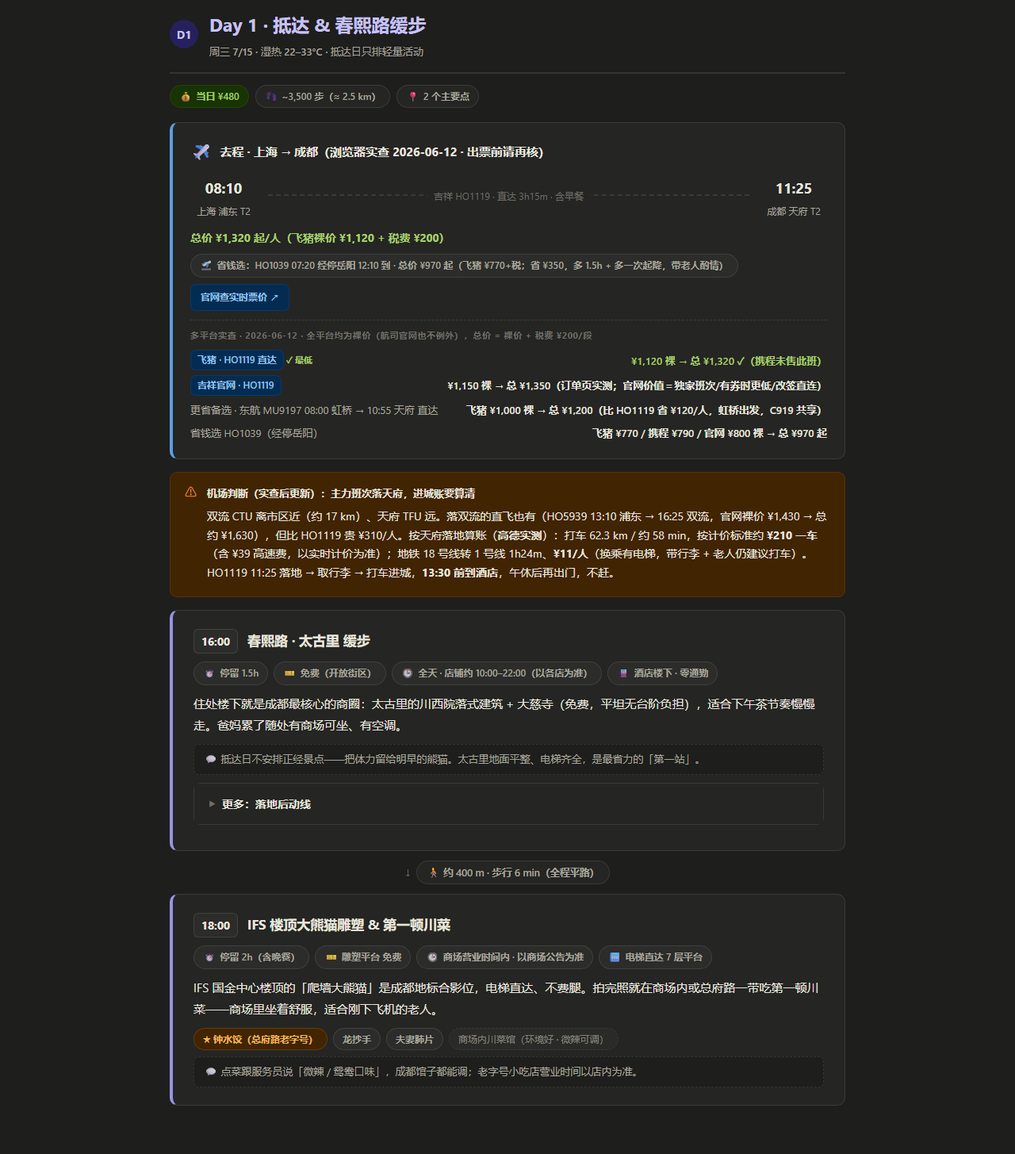
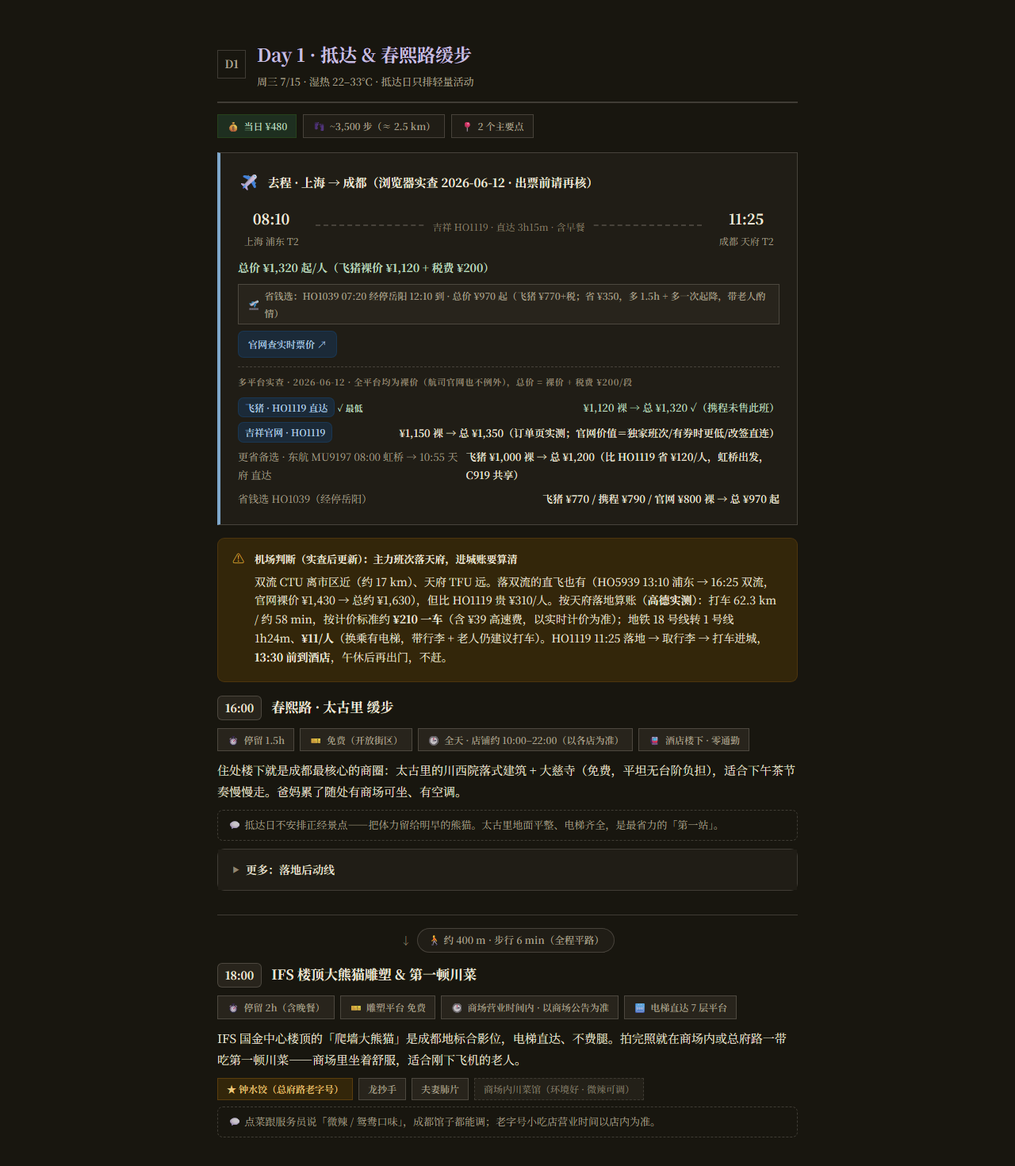
chore: 示例与 README 六张资产随新默认方向一并翻新
示例内嵌的也是旧 CSS 快照，加了 data-theme 也是空转；模板默认已改成 journal，
README 展示的还是旧暖米白，图和产物对不上。

改动：
- 示例内嵌 CSS 整块换成按模板组装出的完整样式表，<html> 设为 data-theme="journal"
- 资产用 make_showcase.sh + make_hero.py + make_demo_gif.py 全部重出

⚠ 踩到一个坑：`## Full CSS` 不是完整样式表。必需的 640px 移动端块挂在 HTML 模板的
<style> 里、在 /* PASTE FULL CSS HERE */ 之后，只取 Full CSS 会把它丢掉 ——
check_html.py 的 mobile adaptation 当场 FAIL。改成用「模板组装后」的样式表。

timeline-desktop.png / hotels-desktop.png 的裁剪窗口不靠目测，用浏览器实测的
区块 getBoundingClientRect 坐标裁；中间产物 full.png 已删。

实测：示例渲染确认真的是 journal（纸白、思源宋体、零圆角），每日色轮转按设计
保留（Day1 蓝），0 横向溢出；check_html.py all checks passed。

diff --git a/examples/成都4日游行程.html b/examples/成都4日游行程.html
@@ -1,5 +1,5 @@
 <!DOCTYPE html>
-<html lang="zh-CN">
+<html lang="zh-CN" data-theme="journal">
 <head>
 <meta charset="UTF-8">
 <meta name="viewport" content="width=device-width, initial-scale=1.0">
@@ -13,6 +13,8 @@
 <style>
 :root {
   --bg:#ffffff; --bg2:#f7f6f2; --bg3:#f0ede6; --bg4:#e8e4db;
+  /* text3 由 #8a8a84 调深：旧值在 --bg2 卡片上只有 3.21:1，低于 AA。目录标题、地图说明、
+     比价标题、换乘箭头都吃它。保持色相只调明度解得。 */
   --text:#1a1a18; --text2:#5a5a56; --text3:#70706B;
   --border:rgba(0,0,0,0.11);
   --purple:#534AB7; --purple-light:#EEEDFE; --purple-dark:#3C3489; --purple-mid:#7F77DD;
@@ -33,6 +35,12 @@
     --purple-light:#26215C; --teal-light:#04342C; --coral-light:#4A1B0C;
     --amber-light:#412402; --blue-light:#042C53; --green-light:#173404;
     --red-light:#501313; --pink-light:#4B1528;
+    /* CRITICAL dark-mode contrast fix (synced from study-notes). The block above only re-darkens
+       the *-light BACKGROUNDS; without the lines below, the base accents and the *-dark TEXT
+       colours keep their light-mode (dark) values, so every "accent text on accent-light
+       background" pairing — chips/pills (.b-*), the themed header pills, section headings,
+       callout icons — becomes dark-on-dark and unreadable (old teal-dark on teal-light measured
+       1.46:1). Brightening restores 6.8–9.9:1. *-mid are already bright; leave them. */
     --purple:#9A92E6; --teal:#3FB389; --coral:#E07B52; --amber:#E89A2A;
     --blue:#5B9FE0; --green:#7FB23E; --red:#E07676; --pink:#D87B9C;
     --purple-dark:#C7C2F5; --teal-dark:#74D6B0; --coral-dark:#F4A487; --amber-dark:#F2B75A;
@@ -52,12 +60,17 @@ body>*:not(.page){max-width:900px;margin-left:auto;margin-right:auto;padding-lef
 }
 /* Wide tables may scroll horizontally on the table element itself */
 table{overflow-x:auto;display:block;}
+/* thin, theme-aware scrollbar for wide tables (synced from study-notes) — far less jarring than
+   the native white bar, and only appears when the table actually overflows */
 table{scrollbar-width:thin;scrollbar-color:var(--text2) transparent;}
 table::-webkit-scrollbar{height:7px;}
 table::-webkit-scrollbar-thumb{background:var(--text2);border-radius:4px;}
 table::-webkit-scrollbar-button{display:none;width:0;height:0;}
 
-/* ── Themed hero header ── */
+/* ── Themed hero header ── a gradient banner keyed to the trip's subject.
+   Always give .header one theme-* class; optionally one deco-* overlay.
+   Text sits at z-index:1 above the decorative ::after layer. Works in light
+   AND dark mode (it's a self-contained dark banner with light text). */
 .header{position:relative;overflow:hidden;text-align:center;color:#f4f3ff;
   border-radius:18px;padding:54px 28px 40px;margin:0 0 42px;
   background:linear-gradient(160deg,#27408b 0%,#3a3f8f 45%,#1d8a6e 100%);}
@@ -66,19 +79,23 @@ table::-webkit-scrollbar-button{display:none;width:0;height:0;}
 .header .subtitle{font-size:14px;margin-bottom:18px;position:relative;z-index:1;
   color:rgba(255,255,255,0.82);line-height:1.7;}
 .tags{display:flex;gap:8px;justify-content:center;flex-wrap:wrap;position:relative;z-index:1;}
+/* translucent pills that read on any gradient — the "包起来" look */
 .tag{display:inline-flex;align-items:center;gap:6px;padding:5px 13px;border-radius:20px;
   font-size:12px;font-weight:600;color:#fff;
   background:rgba(255,255,255,0.16);border:1px solid rgba(255,255,255,0.28);}
 
-.theme-night {background:linear-gradient(160deg,#1a1f4b 0%,#2d2a6e 38%,#0f6e56 100%);}
-.theme-ocean {background:linear-gradient(160deg,#0b3a6f 0%,#1167a8 45%,#1d9e9e 100%);}
-.theme-sunset{background:linear-gradient(160deg,#6e2545 0%,#c0432f 50%,#e7972a 100%);}
-.theme-forest{background:linear-gradient(160deg,#123421 0%,#1f6e4e 50%,#3f8a3a 100%);}
-.theme-city  {background:linear-gradient(160deg,#232a45 0%,#34407a 50%,#4d6fae 100%);}
-.theme-sakura{background:linear-gradient(160deg,#8a3a6b 0%,#b65a86 45%,#7b6fd0 100%);}
-.theme-snow  {background:linear-gradient(160deg,#243b63 0%,#3f6fb0 55%,#86b6e6 100%);}
-.theme-desert{background:linear-gradient(160deg,#5e3417 0%,#b5762f 52%,#dcab53 100%);}
+/* Theme gradient presets — pick the one matching the trip's mood, or write a
+   custom `background:linear-gradient(...)` inline on .header to fit the place. */
+.theme-night {background:linear-gradient(160deg,#1a1f4b 0%,#2d2a6e 38%,#0f6e56 100%);} /* 观星/沙漠夜/极光 */
+.theme-ocean {background:linear-gradient(160deg,#0b3a6f 0%,#1167a8 45%,#1d9e9e 100%);} /* 海岛/海滨/潜水 */
+.theme-sunset{background:linear-gradient(160deg,#6e2545 0%,#c0432f 50%,#e7972a 100%);} /* 城市夜景/浪漫/沙漠日落 */
+.theme-forest{background:linear-gradient(160deg,#123421 0%,#1f6e4e 50%,#3f8a3a 100%);} /* 雨林/山野/徒步/茶园 */
+.theme-city  {background:linear-gradient(160deg,#232a45 0%,#34407a 50%,#4d6fae 100%);} /* 都市/购物/现代建筑 */
+.theme-sakura{background:linear-gradient(160deg,#8a3a6b 0%,#b65a86 45%,#7b6fd0 100%);} /* 日本/赏花/春季粉调 */
+.theme-snow  {background:linear-gradient(160deg,#243b63 0%,#3f6fb0 55%,#86b6e6 100%);} /* 滑雪/雪国/冬季 */
+.theme-desert{background:linear-gradient(160deg,#5e3417 0%,#b5762f 52%,#dcab53 100%);} /* 沙漠/戈壁/丝路 */
 
+/* Decorative overlays (optional, theme-flavoured). Add e.g. class="header theme-night deco-stars". */
 .deco-stars::after{content:"";position:absolute;inset:0;pointer-events:none;opacity:0.85;
   background-image:
     radial-gradient(1.4px 1.4px at 12% 22%,#fff 50%,transparent),
@@ -89,6 +106,7 @@ table::-webkit-scrollbar-button{display:none;width:0;height:0;}
     radial-gradient(1.2px 1.2px at 88% 52%,#fff 50%,transparent),
     radial-gradient(1.3px 1.3px at 38% 82%,#fff 50%,transparent),
     radial-gradient(1.1px 1.1px at 70% 40%,#fff 50%,transparent);}
+/* soft light blobs — good for ocean/sunset/sakura warmth */
 .deco-glow::after{content:"";position:absolute;inset:0;pointer-events:none;opacity:0.5;
   background:radial-gradient(40% 60% at 80% 12%,rgba(255,255,255,0.35),transparent 70%),
             radial-gradient(46% 64% at 14% 90%,rgba(255,255,255,0.18),transparent 70%);}
@@ -108,7 +126,7 @@ table::-webkit-scrollbar-button{display:none;width:0;height:0;}
 .toc-l2 a:hover{background:var(--bg3);text-decoration:none;}
 .toc-l2 a .sec-dot{width:5px;height:5px;border-radius:50%;flex-shrink:0;opacity:0.7;}
 
-/* Section */
+/* Section (= one day, or a top-level block like 概览 / 预算 / 清单) */
 .section{margin-bottom:60px;}
 .section-header{display:flex;align-items:center;gap:14px;margin-bottom:22px;padding-bottom:14px;border-bottom:2.5px solid var(--border);}
 .section-num{min-width:36px;height:36px;padding:0 8px;border-radius:50%;display:flex;align-items:center;justify-content:center;font-size:14px;font-weight:700;flex-shrink:0;}
@@ -127,10 +145,11 @@ table::-webkit-scrollbar-button{display:none;width:0;height:0;}
 .card ul,.card ol{padding-left:22px;margin-bottom:10px;}
 .card li{margin-bottom:6px;line-height:1.8;font-size:14px;}
 
+/* Highlight box — for the trip overview / a key fact (replaces study-notes' .fbox) */
 .highlight-box{background:var(--bg3);border-left:3.5px solid var(--blue);border-radius:0 10px 10px 0;padding:16px 20px;margin:14px 0;}
 .highlight-box .hl-label{font-size:11px;font-weight:700;text-transform:uppercase;letter-spacing:0.09em;margin-bottom:8px;opacity:0.75;}
 
-/* Callouts */
+/* Callouts — base CSS kept from study-notes; classes retargeted to travel use */
 .callout{border-radius:9px;padding:14px 18px;margin:14px 0;display:flex;gap:13px;}
 .callout-icon{font-size:15px;flex-shrink:0;margin-top:3px;line-height:1;}
 .callout-body{flex:1;}
@@ -138,6 +157,9 @@ table::-webkit-scrollbar-button{display:none;width:0;height:0;}
 .callout-body p strong,.callout-body li strong{display:inline;font-size:inherit;font-weight:700;}
 .callout-body p,.callout-body li{font-size:14px;margin:0 0 4px;line-height:1.7;}
 .callout-body ul{padding-left:18px;margin:0;}
+/* Travel callout semantics:
+   info=blue💡 须知/一般信息 | tip=teal✦ 省钱省时小技巧 | warn=amber⚠ 注意(排队/天气/治安)
+   must=red★ 必订/必约/需提前预订 | avoid=pink✗ 避雷/不推荐 | weather=purple🌧 雨天/极端天气 Plan B */
 .info{background:var(--blue-light);border:1px solid rgba(24,95,165,0.18);}
 .info .callout-icon::before{content:"💡";}
 .tip{background:var(--teal-light);border:1px solid rgba(15,110,86,0.18);}
@@ -170,7 +192,7 @@ details[open] summary::before{transform:rotate(90deg);}
 .details-body{padding:18px 20px;}
 .details-body p{margin-bottom:8px;font-size:14px;}
 
-/* Numbered steps */
+/* Numbered steps (e.g. 如何前往 / 换乘指引) */
 .steps{margin:8px 0;}
 .step{display:flex;gap:14px;margin-bottom:16px;}
 .step-num{width:28px;height:28px;border-radius:50%;font-size:13px;font-weight:700;display:flex;align-items:center;justify-content:center;flex-shrink:0;margin-top:2px;}
@@ -178,7 +200,9 @@ details[open] summary::before{transform:rotate(90deg);}
 .step-body > strong{display:block;margin-bottom:4px;}
 .step-body p strong,.step-body li strong{display:inline;font-weight:700;}
 
-/* ── POI card ── */
+/* ── POI (point-of-interest) card ── one stop in a day's timeline.
+   Lives inside a day section as <div class="card poi sec-aware">. The left color bar
+   comes from the enclosing .sec-COLOR via the accent rules further down. */
 .poi{position:relative;border-left:4px solid var(--border);}
 .poi .poi-head{display:flex;align-items:baseline;gap:12px;flex-wrap:wrap;margin-bottom:10px;
   padding-bottom:0;border-bottom:none;}
@@ -193,19 +217,20 @@ details[open] summary::before{transform:rotate(90deg);}
   border-radius:7px;padding:8px 12px;margin-top:8px;line-height:1.6;}
 .poi .poi-tip::before{content:"💬 ";opacity:0.8;}
 
-/* Day overview strip */
+/* Day overview strip (under the day section header): 当日花费 + 步数 + 主要点数 */
 .day-meta{display:flex;flex-wrap:wrap;gap:8px;margin:-8px 0 18px;}
 .day-meta .meta-chip{background:var(--bg2);}
 .day-meta .spend{background:var(--green-light);border-color:rgba(59,109,17,0.3);color:var(--green-dark);}
 
-/* ── Transit connector ── */
+/* ── Transit connector ── sits BETWEEN two POI cards = 到下一点的通勤/路线段.
+   Mirrors the day's route on the map: mode + distance + time. */
 .transit{display:flex;justify-content:center;align-items:center;gap:8px;margin:-4px 0 12px;
   font-size:12.5px;color:var(--text2);}
 .transit .tpill{display:inline-flex;align-items:center;gap:6px;background:var(--bg2);
   border:1px solid var(--border);border-radius:20px;padding:3px 12px;font-weight:600;white-space:nowrap;}
 .transit .tarrow{color:var(--text3);font-size:13px;}
 
-/* ── Transport segment card ── */
+/* ── Transport segment card (flight / train / intercity) ── */
 .transport{background:var(--bg2);border:1px solid var(--border);border-left:4px solid var(--blue);
   border-radius:var(--radius);padding:18px 22px;margin-bottom:16px;}
 .transport .tr-head{display:flex;align-items:center;gap:10px;margin-bottom:12px;}
@@ -225,7 +250,7 @@ details[open] summary::before{transform:rotate(90deg);}
   border:1px solid rgba(24,95,165,0.25);border-radius:7px;padding:5px 12px;transition:filter .12s;}
 .btn-link:hover{filter:brightness(0.96);}
 
-/* ── Multi-platform price comparison ── */
+/* ── Multi-platform price comparison (机票必做：查多个平台比价) ── inside a flight .transport card */
 .price-compare{margin-top:11px;border-top:1px dashed var(--border);padding-top:9px;}
 .price-compare .pc-title{font-size:11px;font-weight:700;text-transform:uppercase;letter-spacing:0.06em;
   color:var(--text3);margin-bottom:6px;}
@@ -236,7 +261,9 @@ details[open] summary::before{transform:rotate(90deg);}
 .pc-row.cheapest .pc-price{color:var(--green-dark);}
 .pc-row.cheapest .pc-plat::after{content:" ✓ 最低";font-size:11px;font-weight:700;color:var(--green-dark);}
 
-/* ── Hotel option card ── */
+/* ── Hotel option card (住宿备选) ── group ≥3 .hotel blocks inside one .card (h3 = 住宿备选).
+   If the user already has accommodation, replace with ONE 已订住宿 card and put
+   data-hotels="user-booked" on that .card so check_html.py knows the omission is deliberate. */
 .hotel{border:1px solid var(--border);border-radius:9px;padding:14px 16px;margin:12px 0;background:var(--bg);}
 .hotel:first-of-type{margin-top:4px;}
 .hotel .h-head{display:flex;align-items:center;gap:9px;flex-wrap:wrap;margin-bottom:6px;}
@@ -247,6 +274,7 @@ details[open] summary::before{transform:rotate(90deg);}
   background:var(--teal-light);color:var(--teal-dark);border:1px solid rgba(15,110,86,0.25);
   border-radius:5px;padding:1px 8px;}
 .hotel .h-meta{display:flex;flex-wrap:wrap;gap:6px;margin:6px 0;}
+/* 评论体检 — the "we read the reviews, not the blurb" box */
 .review-check{font-size:12.5px;line-height:1.65;background:var(--bg2);border:1px solid var(--border);
   border-radius:7px;padding:9px 12px;margin:8px 0;}
 .review-check .rc-title{font-weight:700;font-size:10px;text-transform:uppercase;letter-spacing:0.05em;
@@ -257,7 +285,7 @@ details[open] summary::before{transform:rotate(90deg);}
 .rank-tag.rec{background:var(--green-light);color:var(--green-dark);}
 .rank-tag.alt{background:var(--bg3);color:var(--text2);}
 
-/* ── Checklist ── */
+/* ── Pre-departure / packing checklist ── */
 .checklist{background:var(--bg2);border:1px solid var(--border);border-radius:var(--radius);padding:14px 20px;margin-bottom:16px;}
 .checklist label{display:flex;align-items:flex-start;gap:10px;padding:7px 4px;font-size:14px;
   cursor:pointer;border-bottom:1px solid var(--border);line-height:1.6;}
@@ -274,6 +302,7 @@ details[open] summary::before{transform:rotate(90deg);}
 .map-legend{display:flex;flex-wrap:wrap;gap:14px;padding:10px 16px;border-top:1px solid var(--border);}
 .leg-item{display:inline-flex;align-items:center;gap:7px;font-size:12px;font-weight:600;color:var(--text2);}
 .leg-dot{width:13px;height:13px;border-radius:50%;border:2px solid #fff;box-shadow:0 0 0 1px var(--border);flex-shrink:0;}
+/* Leaflet numbered pin (built via divIcon in JS) */
 .pin{width:24px;height:24px;border-radius:50%;color:#fff;font-size:12px;font-weight:700;
   display:flex;align-items:center;justify-content:center;border:2px solid #fff;
   box-shadow:0 1px 4px rgba(0,0,0,.45);}
@@ -293,7 +322,9 @@ details[open] summary::before{transform:rotate(90deg);}
 .b-green{background:var(--green-light);color:var(--green-dark);}
 .b-red{background:var(--red-light);color:var(--red-dark);}
 
-/* ── Chips ── */
+/* ── Chips ── reusable pill for wrapping short items anywhere in the body
+   (必吃清单、亮点、随手鸟点/物种、关键词…). Wrap a run of them; they flow + wrap.
+   .star = 招牌/必看 (amber highlight); .muted = 机会/备选 (dashed, dimmed). */
 .chips{display:flex;flex-wrap:wrap;gap:6px 7px;margin:8px 0;}
 .chip{display:inline-flex;align-items:center;gap:5px;background:var(--bg3);border:1px solid var(--border);
   border-radius:20px;padding:3px 11px;font-size:12px;font-weight:600;color:var(--text2);
@@ -301,7 +332,7 @@ details[open] summary::before{transform:rotate(90deg);}
 .chip.star{background:var(--amber-light);border-color:rgba(186,117,23,0.3);color:var(--amber-dark);}
 .chip.muted{opacity:0.72;border-style:dashed;font-weight:500;}
 
-/* Section color accents */
+/* Section color accents — apply to the wrapper, e.g. <div class="sec-teal"> */
 .sec-purple .section-num{background:var(--purple-light);color:var(--purple-dark);}
 .sec-purple .section h2{color:var(--purple-dark);}
 .sec-purple .poi{border-left-color:var(--purple);}
@@ -360,6 +391,106 @@ details[open] summary::before{transform:rotate(90deg);}
   transition:background 0.1s;
 }
 #nav-panel a:hover{background:var(--bg2);}
+
+/* ══════════════════════════════════════════════════════════════════════════
+   方向层 —— 写在 <html data-theme="journal|magazine">，省略 = 旧版暖米白。
+
+   ⚠ 与另外两个 skill 的关键差别：这里**不做单色分区**。
+   行程的分区色是按天轮转的（Day1 紫 → Day2 青 → …），那是跨天的寻路线索，
+   还和地图上的路线颜色对应 —— 压成单色会把这条线索毁掉。
+   所以方向只把整套色**重新调色**（统一到该方向的色温），七天七色照旧。
+
+   另：hero 的 theme-night/ocean/sakura… 管「目的地气质」，data-theme 管
+   「文档用途」，两个轴互不干扰，可以自由组合（实测渐变在各方向下都完好）。
+   ══════════════════════════════════════════════════════════════════════════ */
+
+/* ── 旅行手账 journal（默认）｜衬线正文、取消卡片、零圆角｜慢旅行、想留作纪念 ── */
+[data-theme="journal"]{
+  --bg:#FCFBF8; --bg2:#F6F3ED; --bg3:#F1EDE4; --bg4:#E9E3D6;
+  --text:#1B1815; --text2:#5C554C; --text3:#746D64;
+  --border:rgba(27,24,21,.17);
+  --radius:0px;
+  --blue:#2B4A6B;  --blue-light:#E8EDF2;  --blue-dark:#1A3350;  --blue-mid:#4A7099;
+  --teal:#3F5A44;  --teal-light:#E8EEE8;  --teal-dark:#2A3F2E;  --teal-mid:#5C7F62;
+  --amber:#8A6410; --amber-light:#F5EDDB; --amber-dark:#5F4408; --amber-mid:#C89422;
+  --red:#7C2A22;   --red-light:#F4E9E7;   --red-dark:#5C1D17;
+  --pink:#7A3550;  --pink-light:#F4E9ED;
+  --green:#3B5E40; --green-light:#E7EEE7; --green-dark:#264229; --green-mid:#57814E;
+  --purple:#4A3F63;--purple-light:#EDEAF2;--purple-dark:#332A48;--purple-mid:#726399;
+  --coral:#8A4A2A; --coral-light:#F5EAE3; --coral-dark:#5F311A; --coral-mid:#B5714A;
+}
+[data-theme="journal"] body,
+[data-theme="journal"] .card p,
+[data-theme="journal"] .poi p{font-family:"Noto Serif SC","Sitka Text",Constantia,Georgia,"华文宋体",serif;}
+[data-theme="journal"] .page{max-width:780px;}
+/* 取消卡片：内容直接落页面，发丝线分隔 —— 像一本翻旧的笔记本 */
+[data-theme="journal"] .card{background:transparent;border:0;border-bottom:1px solid var(--border);
+  border-radius:0;padding:0 0 20px;margin-bottom:20px;}
+[data-theme="journal"] .card:last-child{border-bottom:0;}
+[data-theme="journal"] .card h3{border-bottom:0;}
+[data-theme="journal"] .section-num{border-radius:0;background:transparent;
+  border:1px solid var(--border);color:var(--text2);}
+[data-theme="journal"] .transport,[data-theme="journal"] .checklist,
+[data-theme="journal"] .chip,[data-theme="journal"] .meta-chip{border-radius:0;}
+
+/* ── 旅行杂志 magazine｜大号衬线标题、留白、一支洋红｜发给别人看的、种草贴 ── */
+[data-theme="magazine"]{
+  --bg:#FFFFFF; --bg2:#F7F6F4; --bg3:#EFEDE9; --bg4:#E4E1DC;
+  --text:#0B0B0C; --text2:#54524F; --text3:#716E6B;
+  --border:rgba(0,0,0,.12);
+  --radius:8px;
+  --blue:#1B4F8F;  --blue-light:#E7EFF8;  --blue-dark:#0F3567;  --blue-mid:#3F7CC4;
+  --teal:#1D5C4A;  --teal-light:#E3F0EB;  --teal-dark:#124034;  --teal-mid:#2E8A6D;
+  --amber:#9A6A0F; --amber-light:#F7EFDC; --amber-dark:#6B4A08; --amber-mid:#D19A22;
+  --red:#C2185B;   --red-light:#FBE9F0;   --red-dark:#8E1042;
+  --pink:#9A2B55;  --pink-light:#FAE8EE;
+  --green:#356515; --green-light:#EAF2E1; --green-dark:#22470A; --green-mid:#5A9128;
+  --purple:#4A31A8;--purple-light:#EDE9FA;--purple-dark:#33207A;--purple-mid:#7A63D6;
+  --coral:#C2185B; --coral-light:#FBE9F0; --coral-dark:#8E1042; --coral-mid:#E0457E;
+}
+[data-theme="magazine"] .header h1{font-family:"Noto Serif SC",Georgia,serif;
+  font-size:44px;font-weight:900;line-height:1.1;}
+[data-theme="magazine"] .section h2{font-family:"Noto Serif SC",Georgia,serif;
+  font-size:30px;font-weight:900;line-height:1.22;}
+[data-theme="magazine"] .card h3,
+[data-theme="magazine"] .poi-head h3{font-family:"Noto Serif SC",Georgia,serif;font-size:21px;}
+[data-theme="magazine"] .page{max-width:860px;}
+[data-theme="magazine"] .section{margin-bottom:64px;}
+[data-theme="magazine"] .card{box-shadow:0 1px 3px rgba(0,0,0,.06);}
+
+/* ══ 各方向的深色版本 ══
+   ⚠ 必须写在方向块之后：@media 不提升特异性，:root 与 [data-theme=x] 同为 (0,1,0)，
+     同分比先后。放前面会被静默吃掉 —— 表现为深色模式下方向全停在白底。 */
+@media(prefers-color-scheme:dark){
+  [data-theme="journal"]{
+    --bg:#18160F; --bg2:#201D16; --bg3:#28241C; --bg4:#302B21;
+    --text:#EDE7DA; --text2:#A9A08E; --text3:#908571;
+    --border:rgba(237,231,218,.19);
+    --blue:#7FA8CC;  --blue-light:#1B2A38;  --blue-dark:#B4CFE6;  --blue-mid:#6289AB;
+    --teal:#89B08F;  --teal-light:#1D2C1F;  --teal-dark:#B2CFB6;  --teal-mid:#6D9474;
+    --amber:#D9A63A; --amber-light:#33260A; --amber-dark:#EDC97D; --amber-mid:#BE8E28;
+    --red:#E08B7E;   --red-light:#3B1B15;   --red-dark:#F1B4A8;
+    --pink:#CE8AA2;  --pink-light:#33202A;
+    --green:#93BE99; --green-light:#1E2F20; --green-dark:#BBD6BF; --green-mid:#74A07B;
+    --purple:#A79BC9;--purple-light:#2A2338;--purple-dark:#C7BFE0;--purple-mid:#8B7DB4;
+    --coral:#D69068; --coral-light:#3A2413; --coral-dark:#EBB795; --coral-mid:#B8794F;
+  }
+  [data-theme="magazine"]{
+    --bg:#0B0B0C; --bg2:#151517; --bg3:#1D1D20; --bg4:#26262A;
+    --text:#F2F1EF; --text2:#A2A09C; --text3:#82807B;
+    --border:rgba(255,255,255,.15);
+    --blue:#6BA3E8;  --blue-light:#12263D;  --blue-dark:#A6CBF2;  --blue-mid:#4A83C9;
+    --teal:#43AC8E;  --teal-light:#0D2C24;  --teal-dark:#7BD2B4;  --teal-mid:#31967A;
+    --amber:#DDA733; --amber-light:#33270A; --amber-dark:#EFCA74; --amber-mid:#C29024;
+    --red:#F06292;   --red-light:#3D1224;   --red-dark:#F8A5C2;
+    --pink:#E089A8;  --pink-light:#3D1A28;
+    --green:#90C258; --green-light:#1E2F11; --green-dark:#B5DC89; --green-mid:#76A644;
+    --purple:#9C8FF0;--purple-light:#231C57;--purple-dark:#C4BBF7;--purple-mid:#7E70DC;
+    --coral:#F06292; --coral-light:#3D1224; --coral-dark:#F8A5C2; --coral-mid:#E8508A;
+  }
+  [data-theme="magazine"] .card{background:#141416;}
+}
+
 #nav-panel .nav-title{
   font-size:10px;font-weight:700;color:var(--text3);
   text-transform:uppercase;letter-spacing:0.08em;

diff --git a/README.md b/README.md
@@ -155,6 +155,7 @@ python3 scripts/check_html.py <输出>.html      # macOS/Linux
   - **两个轴，不是一个**：`theme-*` 管目的地气质，`data-theme` 管文档用途，自由组合。实测六种组合下 hero 渐变全部完好。
   - **刻意不做单色分区**（这是与 `study-notes` / `visual-report` 的关键差别）：行程的每日色轮转是**跨天的寻路线索**，还和地图上的路线颜色一一对应，压成单色会把这条线索毁掉。方向只把整套色**重新调色**统一到该方向的色温，**七天七色照旧**——已实测每个方向下每日色数都是 7。
   - **顺带修掉一个既有缺陷**：`--text3` 在 `--bg2` 卡片上**只有 3.21:1**（深色 3.01:1），低于 AA，而目录标题、地图说明、比价标题、换乘箭头都吃它。这是三个同源 skill 上的同一个 bug，`visual-report` 与 `study-notes` 已先后修掉，这边补齐；示例 `examples/成都4日游行程.html` 的内嵌 CSS 一并同步。
+  - **示例与 README 全部资产一并翻新**：示例内嵌的也是旧 CSS 快照，加了 `data-theme` 也是空转。改成按模板组装出完整样式表整块替换，示例 `<html>` 设为 `data-theme="journal"`。**注意：`## Full CSS` 不是全部** —— 必需的 640px 移动端块挂在 HTML 模板的 `<style>` 里、在占位符之后，只取 Full CSS 会把它丢掉（`check_html.py` 的 mobile adaptation 直接 FAIL，实测踩到）。资产用 `make_showcase.sh` + `make_hero.py` + `make_demo_gif.py` 重出六张；`timeline-desktop.png` / `hotels-desktop.png` 的裁剪窗口不靠目测，改用浏览器实测的区块 `getBoundingClientRect` 坐标。
   - **实测**：从改后的 `design-system.md` 抽出 CSS ＋模板拼成真实行程页（hero、航班比价、时刻节点、POI 卡、换乘连接、预算表、行前清单全覆盖），**3 方向 × 明暗 2 模式 = 6 组合**，逐元素按真实计算样式 ＋ 逐层向上解析有效背景做 WCAG 扫描：**0 处未达标**（改动前 base 一栏有 6 处），横向溢出 0，无 JS 报错；`check_html.py` 对示例 `all checks passed`。
 
 - **2026-06-20 · v0.18** — 生态对标:评估了 [anysearch-skill](https://github.com/anysearch-ai/anysearch-skill)(给 agent 用的统一搜索 API)能否进工作流,结论**不纳入**——它只能改进契约里已被降级的 web_search 层、碰不到三类强制浏览器数据(机票/酒店实时价、真实评论区),且中国主战场(携程/飞猪/高德/12306/小红书)零具名覆盖、供应商发布仅 6 周创始人匿名。完整「症状→理由→未来复评的唯一窄口子(燃油/官方静态页 extract)+六道门槛」记进 `references/lessons-learned.md` 新增的「对标观察登记册」B1。**本轮不改任何运行行为**,纯留对标记忆。
